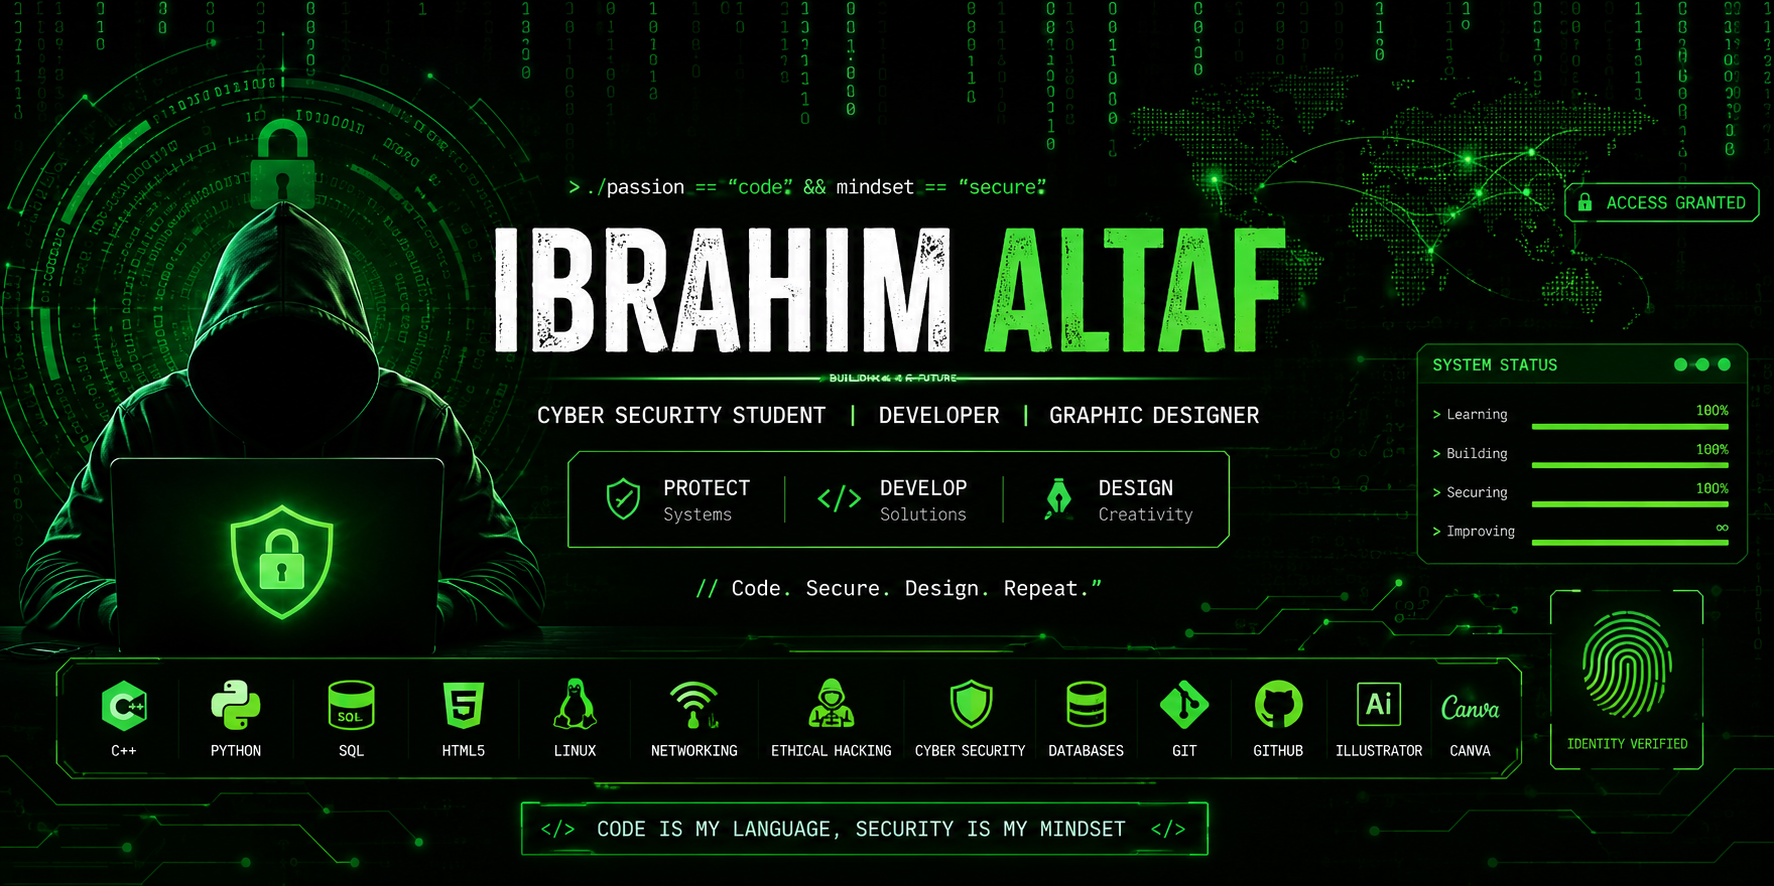
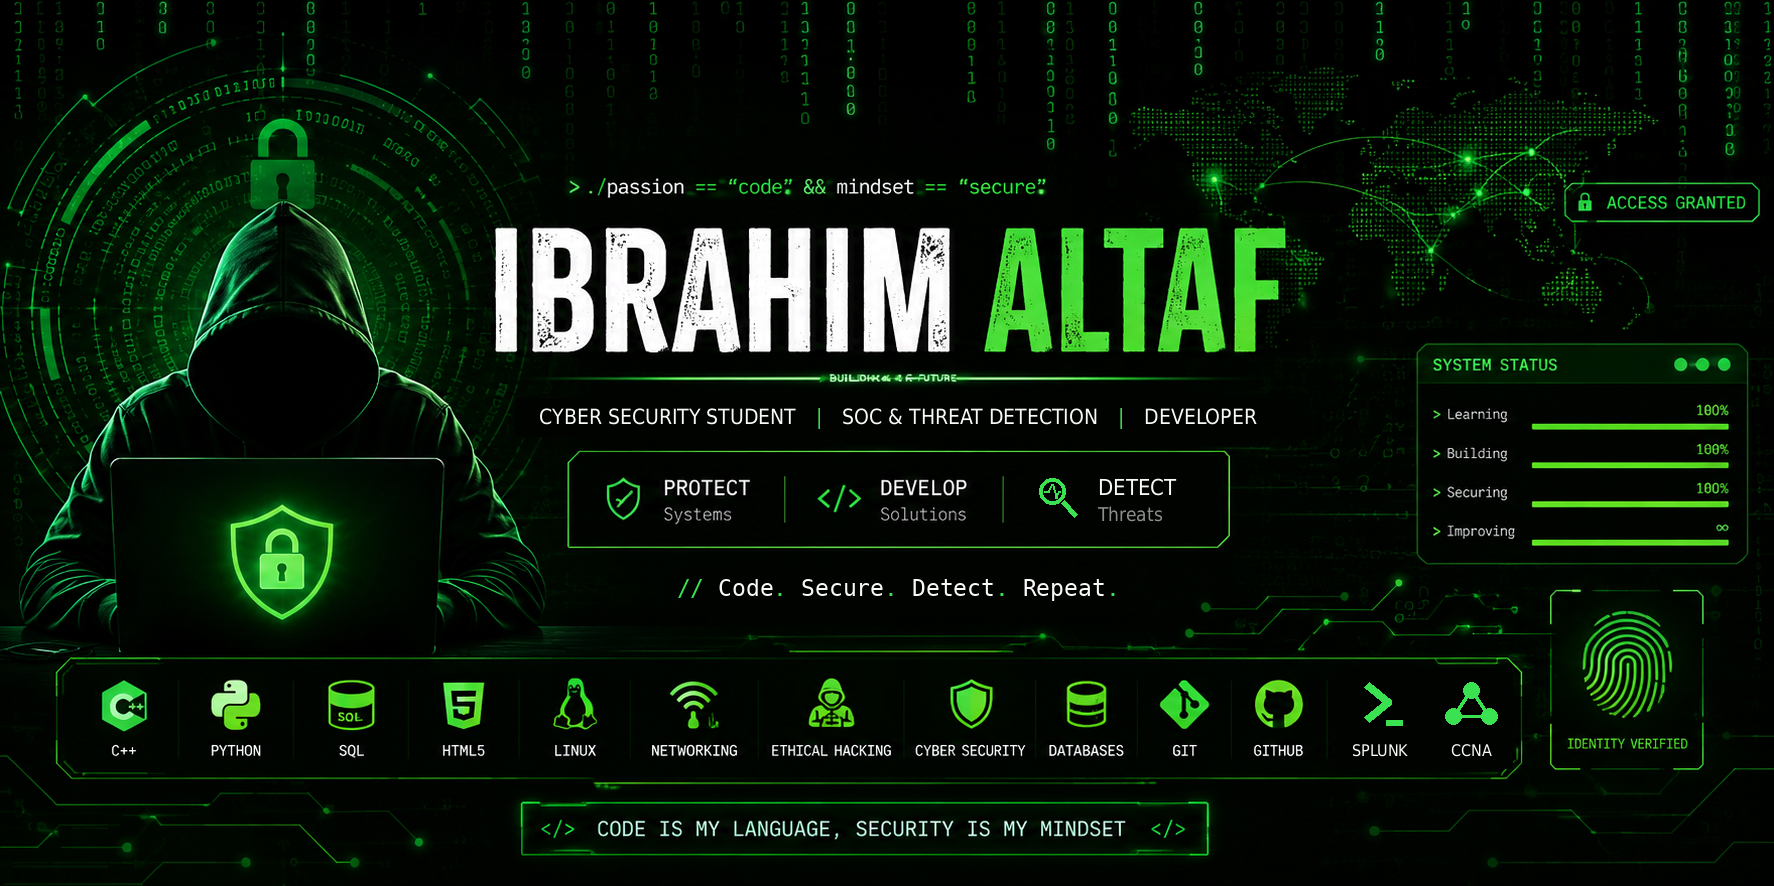
Add files via upload

diff --git a/README.md b/README.md
@@ -1,34 +1,72 @@
 <p align="center">
   <img src="banner.png" width="100%">
 </p>
+
 <p align="center">
-  <img src="https://readme-typing-svg.demolab.com?font=Fira+Code&size=24&pause=1000&color=00FF99&center=true&vCenter=true&width=700&lines=Cyber+Security+Student;C%2B%2B+Developer;Python+Learner;Graphic+Designer;Open+Source+Enthusiast" />
+  <img src="https://readme-typing-svg.demolab.com?font=Fira+Code&size=24&pause=1000&color=00FF99&center=true&vCenter=true&width=700&lines=Cyber+Security+Student;SOC+%26+Threat+Detection;Python+Security+Tools;Full-Stack+Developer;CCNA+%7C+RHCSA+Certified" />
 </p>
+
+<p align="center">
+  <img src="https://img.shields.io/badge/CCNA-1BA0D7?style=for-the-badge&logo=cisco&logoColor=white">
+  <img src="https://img.shields.io/badge/RHCSA-EE0000?style=for-the-badge&logo=redhat&logoColor=white">
+  <img src="https://img.shields.io/badge/Open%20to-Internships-00C853?style=for-the-badge">
+</p>
+
 ## 🛡 About Me
 
-🎓 BS Cyber Security Student
+🎓 BS Cyber Security student at the University of Management and Technology (UMT), Lahore, focused on SOC operations, threat detection, and secure software development.
 
-💻 Passionate about:
-- Cyber Security
-- Software Development
-- Networking
-- Graphic Design
+I build hands-on security projects: attack detection labs, network scanners, and attack simulators, backed by CCNA and RHCSA certifications.
 
-🚀 Currently Working On:
+🎯 **Currently seeking a cybersecurity internship** where I can apply my SOC, networking, and Linux skills to real-world security work.
+
+## 💻 Focus Areas
+
+- SOC Operations & Threat Detection
+- Network Security & Vulnerability Assessment
+- Linux & Windows Server Administration
+- Python Security Tooling
+- Full-Stack Web Development
+
+## 🏅 Certifications
+
+- **CCNA**: Cisco Certified Network Associate
+- **RHCSA**: Red Hat Certified System Administrator
+- **Hackviser** Core Certification
+- **Cybrary**: Offensive Security Operations
+
+## 🚀 Featured Projects
+
+| Project | What it does |
+|---|---|
+| [Active Directory Attack Detection Lab](https://github.com/IbrahimAltaf78/Active-Directory-Attack-Detection-Lab) | Windows Server 2022 domain with Splunk and Sysmon for threat hunting and security event analysis |
+| [Cyber Attack Simulator](https://github.com/IbrahimAltaf78/Cyber_Attack_Simulator) | Gamified Python platform that simulates phishing, brute force, DDoS, and SQL injection attacks |
+| [Lumina](https://github.com/IbrahimAltaf78/Lumina) | Full-stack AI chat app (React, Node/Express, MongoDB) deployed on Vercel and Railway |
+| [Society Membership System](https://github.com/IbrahimAltaf78/society-membership-system) | Python and SQL Server application for managing society memberships |
+
+## 🔨 Currently Working On
+
+- Lumina (AI chat app)
 - Healthcare Appointment System (C++)
-- Student Portal System
-- GitHub Portfolio
+- GitHub portfolio and project documentation
 
-🌱 Currently Learning:
-- Python
-- SQL
-- Linux
-- Ethical Hacking Fundamentals
+## 🌱 Currently Learning
 
-- ## ⚙ Technologies & Tools
+- Splunk detection engineering
+- Active Directory security
+- Penetration testing
+
+## ⚙ Technologies & Tools
 
 <p align="center">
-<img src="https://skillicons.dev/icons?i=cpp,python,html,css,git,github,linux,vscode,mysql" />
+<img src="https://skillicons.dev/icons?i=cpp,python,flask,html,css,js,linux,windows,mysql,git,github,vscode" />
+</p>
+
+<p align="center">
+  <img src="https://img.shields.io/badge/Splunk-000000?style=for-the-badge&logo=splunk&logoColor=white">
+  <img src="https://img.shields.io/badge/Sysmon-0078D6?style=for-the-badge&logo=windows&logoColor=white">
+  <img src="https://img.shields.io/badge/Active%20Directory-0078D6?style=for-the-badge&logo=windows&logoColor=white">
+  <img src="https://img.shields.io/badge/Cisco-1BA0D7?style=for-the-badge&logo=cisco&logoColor=white">
 </p>
 
 ## 📊 GitHub Analytics
@@ -51,9 +89,5 @@
 
   <a href="mailto:ibrahimaltaf302@gmail.com">
     <img src="https://img.shields.io/badge/Gmail-D14836?style=for-the-badge&logo=gmail&logoColor=white">
-  </a>
-
-  <a href="https://www.instagram.com/ibrahimone_5" target="_blank">
-    <img src="https://img.shields.io/badge/Instagram-E4405F?style=for-the-badge&logo=instagram&logoColor=white">
   </a>
 </p>
